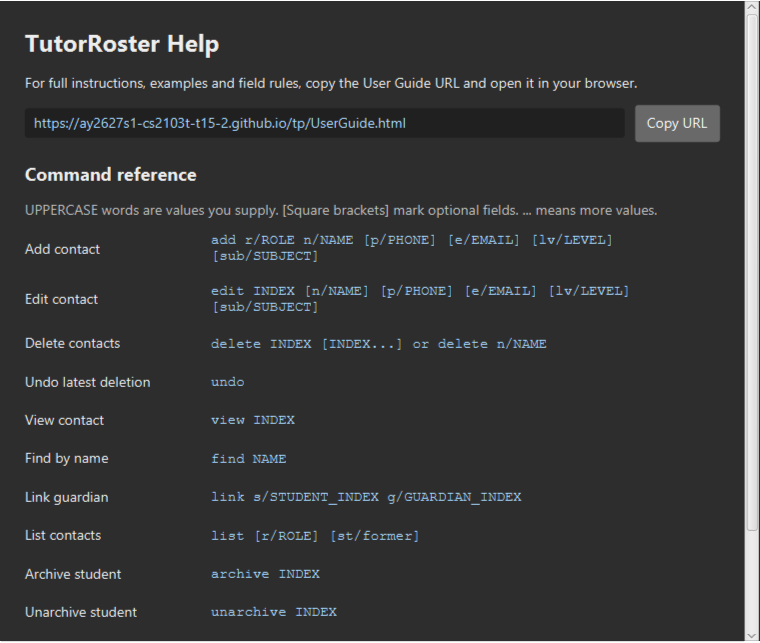
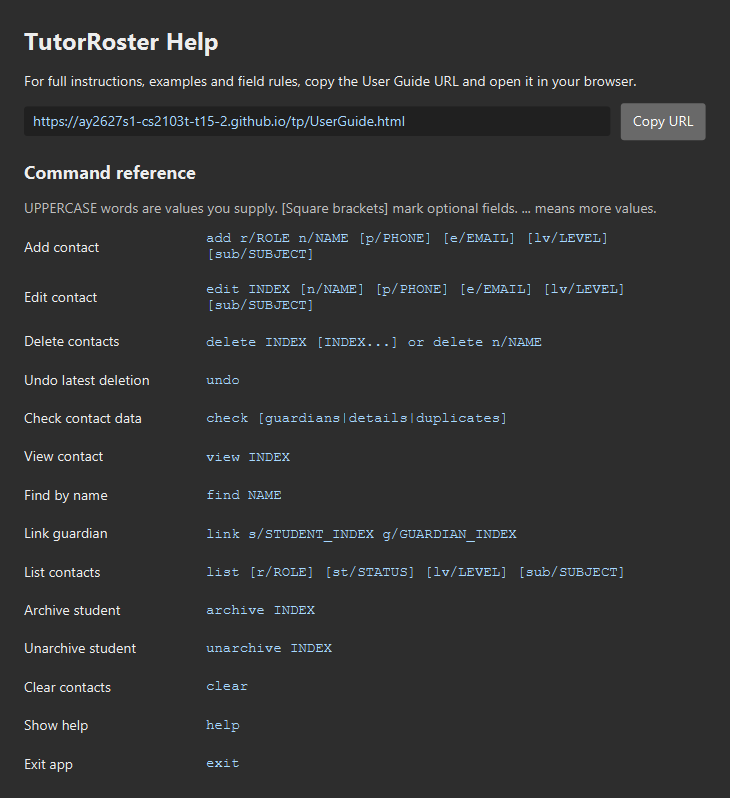
Update help window image

Changed region(s): [[0.0, 0.0, 1.0, 1.0], [0.7233, 0.6843, 0.8438, 0.7465]]

diff --git a/src/main/java/seedu/address/ui/HelpWindow.java b/src/main/java/seedu/address/ui/HelpWindow.java
@@ -120,21 +120,8 @@ public class HelpWindow extends UiPart<Stage> {
 
     /**
      * Shows the help window.
-     * @throws IllegalStateException
-     *     <ul>
-     *         <li>
-     *             if this method is called on a thread other than the JavaFX Application Thread.
-     *         </li>
-     *         <li>
-     *             if this method is called during animation or layout processing.
-     *         </li>
-     *         <li>
-     *             if this method is called on the primary stage.
-     *         </li>
-     *         <li>
-     *             if {@code dialogStage} is already showing.
-     *         </li>
-     *     </ul>
+     *
+     * @throws IllegalStateException if called on a thread other than the JavaFX Application Thread.
      */
     public void show() {
         logger.fine("Showing help page about the application.");

diff --git a/src/main/java/seedu/address/model/person/StudentDetailValidator.java b/src/main/java/seedu/address/model/person/StudentDetailValidator.java
@@ -35,7 +35,9 @@ final class StudentDetailValidator {
         return ValidationResult.VALID;
     }
 
-    /** The outcome of checking a student detail, independent of its field-specific message. */
+    /**
+     * The outcome of checking a student detail, independent of its field-specific message.
+     */
     enum ValidationResult {
         VALID, TOO_LONG, INVALID_CHARACTERS, MISSING_ALPHANUMERIC, SURROUNDING_SPACES
     }
